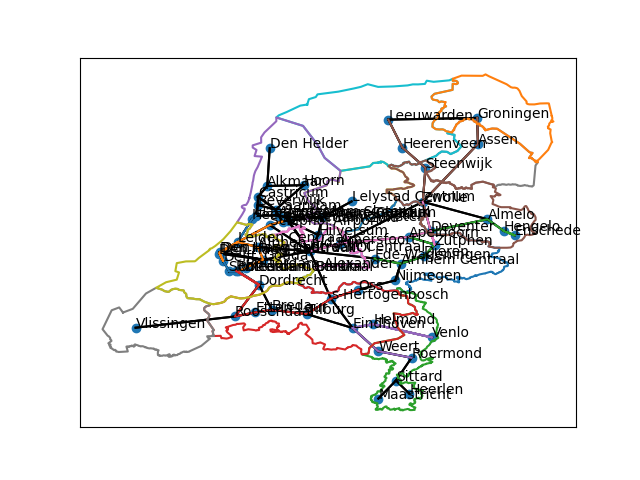
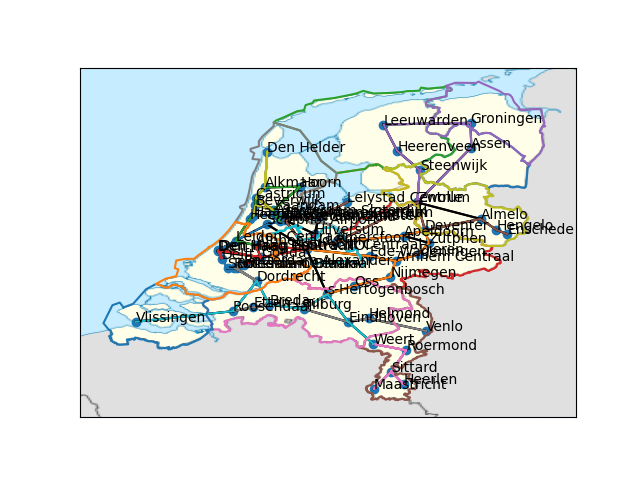
changed files to take nl or holland as input

diff --git a/program/algorithm.py b/program/algorithm.py
@@ -2,15 +2,24 @@ from .network_graph import Network
 from .trajectory import Train
 import csv
 
-def run():
+def run(which_regions = 'holland'):
     trains = []
+
+    if which_regions == 'nl':
+        traj_num = 20
+        data_stations = 'data/StationsNationaal.csv'
+        data_connections = 'data/ConnectiesNationaal.csv'
+    elif which_regions == 'holland':
+        traj_num = 7
+        data_stations = 'data/StationsHolland.csv'
+        data_connections = 'data/ConnectiesHolland.csv'
 
     with open('output/output.csv', 'w', newline='') as csvfile:
         writer = csv.writer(csvfile, delimiter = ',')
         header = ["train", "stations"]
         writer.writerow(header)
 
-        n = Network('data/StationsHolland.csv', 'data/ConnectiesHolland.csv')
+        n = Network(data_stations, data_connections)
 
         p_counter = 0
         min = 0
@@ -18,11 +27,11 @@ def run():
 
         # make the trains/trajectories
         train_number = 1
-        while len(n.check_stations()) > 0 and train_number <= 7:
+        while len(n.check_stations()) > 0 and train_number <= traj_num:
             t = Train(f'train_{train_number}', n)
             # choose which algorithm to use
-            # t.greedy_time()
-            t.connect_with_used()
+            t.greedy_time()
+            # t.connect_with_used()
             # t.connect()
             trains.append(t.trajectory)
 

diff --git a/program/visualisation.py b/program/visualisation.py
@@ -2,7 +2,15 @@ import matplotlib.pyplot as plt
 import geopandas as gpd
 from .network_graph import Network
 
-def visualize(network, trains):
+def visualize(network, trains, which_region = 'holland'):
+
+    if which_region == 'nl':
+        geo_json_file = 'data/nl_regions.geojson'
+        save_plot = 'output/holland_plot.png'
+    elif which_region == 'holland':
+        geo_json_file ='data/holland_regions.geojson'
+        save_plot = 'output/holland_plot.png'
+    
     # intialize empty lists for the plotting
     names = []
     coords = []
@@ -65,7 +73,7 @@ def visualize(network, trains):
     
 
     # loading file of boarders of Holland
-    df_places = gpd.read_file('data/holland_regions.geojson')
+    df_places = gpd.read_file(geo_json_file)
 
     # looping through regions in the data file and plotting them in a matplotlib graph
     for polygon in df_places['geometry']:
@@ -73,7 +81,7 @@ def visualize(network, trains):
         plt.plot(x,y)
 
     # save plot
-    plt.savefig('output/holland_plot.png')
+    plt.savefig(save_plot)
 
     # show the whole plot
     plt.show()

diff --git a/program/network_graph.py b/program/network_graph.py
@@ -67,7 +67,7 @@ class Network():
                 # string representations of the two stations and distance
                 station1 = splitline[0]
                 station2 = splitline[1]
-                distance = int(splitline[2])
+                distance = float(splitline[2])
 
                 # node representation of the two stations
                 station_node1 = self.stations[station1]

diff --git a/main.py b/main.py
@@ -2,14 +2,15 @@ from program.algorithm import run
 from program.visualisation import visualize
 from program.baseline import hist
 
+
 # create a network and run the algorithm
-data_tuple = run()
+data_tuple = run('nl')
 
 # save data from the run
 n = data_tuple[0]
 trains = data_tuple[1]
 
 # visualize the data
-visualize(n, trains)
+visualize(n, trains, 'nl')
 
 hist(1000)

diff --git a/program/trajectory.py b/program/trajectory.py
@@ -109,7 +109,7 @@ class Train():
     def check_time(self, connection: "Connection"):
         # keep track of the total time of the trajectory
         time = connection.time
-        if self.time + time <= 120:
+        if self.time + time <= 180:
             self.time = self.time + time
             self.add_station(connection)
         else:
